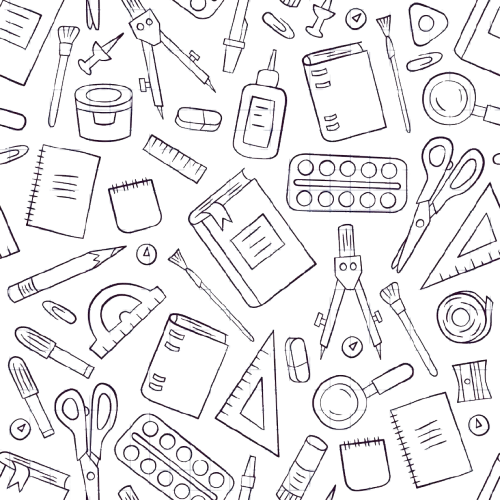
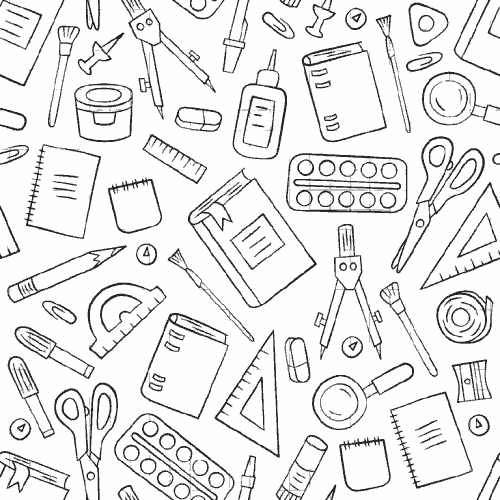
mejor

diff --git a/src/app/footer/footer.component.html b/src/app/footer/footer.component.html
@@ -2,9 +2,9 @@
     <div class="mx-auto w-full max-w-screen-xl p-4 py-6 lg:py-8">
         <div class="md:flex md:justify-between">
           <div class="mb-6 md:mb-0">
-              <a href="https://flowbite.com/" class="flex items-center">
-                  <img src="LOGO SHOPPERS 2024.jpg" class="h-14 me-3" alt="Shoppers Logo" />
-                  <span class="self-center text-2xl font-semibold whitespace-nowrap text-white">{{title}}</span>
+              <a  class="flex items-center">
+                  <img src="LOGO_SHOPPERS_20241-white.png" class="h-14 me-3" alt="Shoppers Logo" />
+                  <!-- <span class="self-center text-2xl font-semibold whitespace-nowrap text-white">{{title}}</span> -->
               </a>
           </div>
           <div class="grid grid-cols-2 gap-8 sm:gap-6 sm:grid-cols-3">
@@ -23,39 +23,14 @@
       </div>
       <hr class="my-6 border-white sm:mx-auto  lg:my-8" />
       <div class="sm:flex sm:items-center sm:justify-between">
-          <span class="text-sm text-white">© {{year}} <a href="https://flowbite.com/" class="hover:underline">{{title}}</a>. Todos los Derechos Reservados.
+          <span class="text-sm text-white">© {{year}} <a  class="hover:underline">{{title}}</a>. Todos los Derechos Reservados.
           </span>
           <div class="flex mt-4 sm:justify-center sm:mt-0">
-              <a href="#" class="text-white  ">
-                  <svg class="w-4 h-4" aria-hidden="true" xmlns="http://www.w3.org/2000/svg" fill="currentColor" viewBox="0 0 8 19">
-                        <path fill-rule="evenodd" d="M6.135 3H8V0H6.135a4.147 4.147 0 0 0-4.142 4.142V6H0v3h2v9.938h3V9h2.021l.592-3H5V3.591A.6.6 0 0 1 5.592 3h.543Z" clip-rule="evenodd"/>
-                    </svg>
-                  <span class="sr-only">Facebook page</span>
+            @for (item of socialMedia; track item) {
+              <a href={{item.link}} class="text-white" target="_blank" rel="noopener noreferrer">
+                  <mat-icon>{{item.icon}}</mat-icon>
               </a>
-              <a href="#" class="text-white   ms-5">
-                  <svg class="w-4 h-4" aria-hidden="true" xmlns="http://www.w3.org/2000/svg" fill="currentColor" viewBox="0 0 21 16">
-                        <path d="M16.942 1.556a16.3 16.3 0 0 0-4.126-1.3 12.04 12.04 0 0 0-.529 1.1 15.175 15.175 0 0 0-4.573 0 11.585 11.585 0 0 0-.535-1.1 16.274 16.274 0 0 0-4.129 1.3A17.392 17.392 0 0 0 .182 13.218a15.785 15.785 0 0 0 4.963 2.521c.41-.564.773-1.16 1.084-1.785a10.63 10.63 0 0 1-1.706-.83c.143-.106.283-.217.418-.33a11.664 11.664 0 0 0 10.118 0c.137.113.277.224.418.33-.544.328-1.116.606-1.71.832a12.52 12.52 0 0 0 1.084 1.785 16.46 16.46 0 0 0 5.064-2.595 17.286 17.286 0 0 0-2.973-11.59ZM6.678 10.813a1.941 1.941 0 0 1-1.8-2.045 1.93 1.93 0 0 1 1.8-2.047 1.919 1.919 0 0 1 1.8 2.047 1.93 1.93 0 0 1-1.8 2.045Zm6.644 0a1.94 1.94 0 0 1-1.8-2.045 1.93 1.93 0 0 1 1.8-2.047 1.918 1.918 0 0 1 1.8 2.047 1.93 1.93 0 0 1-1.8 2.045Z"/>
-                    </svg>
-                  <span class="sr-only">Discord community</span>
-              </a>
-              <a href="#" class="text-white   ms-5">
-                  <svg class="w-4 h-4" aria-hidden="true" xmlns="http://www.w3.org/2000/svg" fill="currentColor" viewBox="0 0 20 17">
-                    <path fill-rule="evenodd" d="M20 1.892a8.178 8.178 0 0 1-2.355.635 4.074 4.074 0 0 0 1.8-2.235 8.344 8.344 0 0 1-2.605.98A4.13 4.13 0 0 0 13.85 0a4.068 4.068 0 0 0-4.1 4.038 4 4 0 0 0 .105.919A11.705 11.705 0 0 1 1.4.734a4.006 4.006 0 0 0 1.268 5.392 4.165 4.165 0 0 1-1.859-.5v.05A4.057 4.057 0 0 0 4.1 9.635a4.19 4.19 0 0 1-1.856.07 4.108 4.108 0 0 0 3.831 2.807A8.36 8.36 0 0 1 0 14.184 11.732 11.732 0 0 0 6.291 16 11.502 11.502 0 0 0 17.964 4.5c0-.177 0-.35-.012-.523A8.143 8.143 0 0 0 20 1.892Z" clip-rule="evenodd"/>
-                </svg>
-                  <span class="sr-only">Twitter page</span>
-              </a>
-              <a href="#" class="text-white   ms-5">
-                  <svg class="w-4 h-4" aria-hidden="true" xmlns="http://www.w3.org/2000/svg" fill="currentColor" viewBox="0 0 20 20">
-                        <path fill-rule="evenodd" d="M10 .333A9.911 9.911 0 0 0 6.866 19.65c.5.092.678-.215.678-.477 0-.237-.01-1.017-.014-1.845-2.757.6-3.338-1.169-3.338-1.169a2.627 2.627 0 0 0-1.1-1.451c-.9-.615.07-.6.07-.6a2.084 2.084 0 0 1 1.518 1.021 2.11 2.11 0 0 0 2.884.823c.044-.503.268-.973.63-1.325-2.2-.25-4.516-1.1-4.516-4.9A3.832 3.832 0 0 1 4.7 7.068a3.56 3.56 0 0 1 .095-2.623s.832-.266 2.726 1.016a9.409 9.409 0 0 1 4.962 0c1.89-1.282 2.717-1.016 2.717-1.016.366.83.402 1.768.1 2.623a3.827 3.827 0 0 1 1.02 2.659c0 3.807-2.319 4.644-4.525 4.889a2.366 2.366 0 0 1 .673 1.834c0 1.326-.012 2.394-.012 2.72 0 .263.18.572.681.475A9.911 9.911 0 0 0 10 .333Z" clip-rule="evenodd"/>
-                  </svg>
-                  <span class="sr-only">GitHub account</span>
-              </a>
-              <a href="#" class="text-white   ms-5">
-                  <svg class="w-4 h-4" aria-hidden="true" xmlns="http://www.w3.org/2000/svg" fill="currentColor" viewBox="0 0 20 20">
-                    <path fill-rule="evenodd" d="M10 0a10 10 0 1 0 10 10A10.009 10.009 0 0 0 10 0Zm6.613 4.614a8.523 8.523 0 0 1 1.93 5.32 20.094 20.094 0 0 0-5.949-.274c-.059-.149-.122-.292-.184-.441a23.879 23.879 0 0 0-.566-1.239 11.41 11.41 0 0 0 4.769-3.366ZM8 1.707a8.821 8.821 0 0 1 2-.238 8.5 8.5 0 0 1 5.664 2.152 9.608 9.608 0 0 1-4.476 3.087A45.758 45.758 0 0 0 8 1.707ZM1.642 8.262a8.57 8.57 0 0 1 4.73-5.981A53.998 53.998 0 0 1 9.54 7.222a32.078 32.078 0 0 1-7.9 1.04h.002Zm2.01 7.46a8.51 8.51 0 0 1-2.2-5.707v-.262a31.64 31.64 0 0 0 8.777-1.219c.243.477.477.964.692 1.449-.114.032-.227.067-.336.1a13.569 13.569 0 0 0-6.942 5.636l.009.003ZM10 18.556a8.508 8.508 0 0 1-5.243-1.8 11.717 11.717 0 0 1 6.7-5.332.509.509 0 0 1 .055-.02 35.65 35.65 0 0 1 1.819 6.476 8.476 8.476 0 0 1-3.331.676Zm4.772-1.462A37.232 37.232 0 0 0 13.113 11a12.513 12.513 0 0 1 5.321.364 8.56 8.56 0 0 1-3.66 5.73h-.002Z" clip-rule="evenodd"/>
-                </svg>
-                  <span class="sr-only">Dribbble account</span>
-              </a>
+            }
           </div>
       </div>
     </div>

diff --git a/src/app/product-alone/product-alone.component.html b/src/app/product-alone/product-alone.component.html
@@ -1,0 +1,65 @@
+<div class="bg-gray-100">
+  <div class="container mx-auto px-4 py-8 max-w-screen-xl">
+    <div class="flex flex-wrap -mx-4">
+      <!-- Product Images -->
+      <div class="w-full md:w-1/2 sm:px-32 md:px-8 lg:px-14 mb-8 px-4">
+        <!-- Imagen principal -->
+        <img [src]="selectedImageUrl" alt="Product" class="w-full h-auto rounded-lg shadow-md mb-4 aspect-square object-contain">
+        
+        <!-- Miniaturas -->
+        <div class="flex gap-4 py-4 justify-center overflow-x-auto flex-wrap">
+          @for (item of listImgs; track item) {
+            <img [src]="item" alt="Product" class="size-16 sm:size-20 object-cover rounded-md cursor-pointer opacity-60  transition duration-300"
+              (click)="changeImage(item)" [class.selectImg]="selectedImageUrl === item">
+          }
+        </div>
+      </div>
+
+      <!-- Product Details -->
+      <div class="w-full md:w-1/2 px-4">
+        <h2 class="text-3xl font-bold mb-2">Premium Wireless Headphones</h2>
+        <p class="text-gray-600 mb-4">SKU: WH1000XM4</p>
+        <div class="mb-4">
+          <span class="text-2xl font-bold mr-2">$349.99</span>
+          <span class="text-gray-500 line-through">$399.99</span>
+        </div>
+        <p class="text-gray-700 mb-6">Experience premium sound quality and industry-leading noise cancellation with these wireless headphones. Perfect for music lovers and frequent travelers.</p>
+
+
+
+        <div class="flex space-x-4 mb-6">
+          <form class="max-w-full ">
+            <label for="quantity-input" class=" mt-3 mb-1 text-xs font-extralight text-rojo flex items-center ">
+              Agregar al <svg xmlns="http://www.w3.org/2000/svg" fill="none" viewBox="0 0 24 24" stroke-width="1.5" stroke="currentColor" class="file:  h-5 w-5">
+                <path stroke-linecap="round" stroke-linejoin="round" d="M2.25 3h1.386c.51 0 .955.343 1.087.835l.383 1.437M7.5 14.25a3 3 0 00-3 3h15.75m-12.75-3h11.218c1.121-2.3 2.1-4.684 2.924-7.138a60.114 60.114 0 00-16.536-1.84M7.5 14.25L5.106 5.272M6 20.25a.75.75 0 11-1.5 0 .75.75 0 011.5 0zm12.75 0a.75.75 0 11-1.5 0 .75.75 0 011.5 0z" />
+            </svg>
+            </label>
+            <div class="relative flex items-center  justify-center">
+                <button type="button" id="decrement-button" data-input-counter-decrement="quantity-input" class="bg-rojo  hover:bg-rojo-hover   rounded-s-md  p-2 h-7 sm-360:h-8">
+                    <svg class="w-3 h-3 text-white" aria-hidden="true" xmlns="http://www.w3.org/2000/svg" fill="none" viewBox="0 0 18 2">
+                        <path stroke="currentColor" stroke-linecap="round" stroke-linejoin="round" stroke-width="2" d="M1 1h16"/>
+                    </svg>
+                </button>
+                <input type="text" id="quantity-input" data-input-counter data-input-counter-min="1" data-input-counter-max="50" aria-describedby="helper-text-explanation" class="bg-white border-x-0 border-gray-200 h-7 sm-360:h-8 text-center text-black text-sm w-10 font-medium border focus:outline-none" placeholder="999" value="0" required />
+                <button type="button" id="increment-button" data-input-counter-increment="quantity-input" class="bg-rojo  hover:bg-rojo-hover   rounded-e-md p-2 h-7 sm-360:h-8">
+                    <svg class="w-3 h-3 text-white" aria-hidden="true" xmlns="http://www.w3.org/2000/svg" fill="none" viewBox="0 0 18 18">
+                        <path stroke="currentColor" stroke-linecap="round" stroke-linejoin="round" stroke-width="2" d="M9 1v16M1 9h16"/>
+                    </svg>
+                </button>
+            </div>
+          </form>
+        </div>
+
+        <div>
+          <h3 class="text-lg font-semibold mb-2">Key Features:</h3>
+          <ul class="list-disc list-inside text-gray-700">
+            <li>Industry-leading noise cancellation</li>
+            <li>30-hour battery life</li>
+            <li>Touch sensor controls</li>
+            <li>Speak-to-chat technology</li>
+          </ul>
+        </div>
+      </div>
+    </div>
+  </div>
+</div>

diff --git a/src/app/main/main.component.html b/src/app/main/main.component.html
@@ -1,21 +1,24 @@
 <!-- component -->
-<div class="flex h-full w-full relative" style="min-height: calc(100vh - 76px);">
-    <img src="fondoCuadri.jpg" class="absolute  w-full h-full aspect-auto object-cover  " alt="">
-   
-    <!-- Right Pane -->
-    <div class="w-full  lg:w-1/2 flex items-center justify-center  relative  ">
-       
-        <div class="relative  text-center px-10   rounded-lg" >
-            <h1 class=" text-5xl text-rojo bg-white mb-6 font-extrabold w-max mx-auto shadow-text">Shoppers</h1>
-            <span class=" font-bold text-xl text-black bg-white shadow-text ">
-                En nuestra papelería encontrarás todo lo necesario para dar vida a tus ideas y organizar tu día con estilo. <br> ¡Haz que tu creatividad fluya!
-            </span>
+<div class="bg-white">
+    <div class="flex h-full max-w-screen-xl mx-auto relative" style="min-height: calc(100vh - 84px);">
+        <img src="fondoCuadri.png" class="absolute  w-full h-full aspect-auto object-cover  " alt="">
+    
+        <!-- Right Pane -->
+        <div class="w-full  lg:w-1/2 flex items-center justify-center  relative  ">
+        
+            <!-- <div class="relative  text-center px-10   rounded-lg" >
+                <h1 class=" text-5xl text-rojo bg-white mb-6 font-extrabold w-max mx-auto shadow-text">Shoppers</h1>
+                <span class=" font-bold text-xl text-black bg-white shadow-text ">
+                    En nuestra papelería encontrarás todo lo necesario para dar vida a tus ideas y organizar tu día con estilo. <br> ¡Haz que tu creatividad fluya!
+                </span>
+            </div> -->
+            <img src="LOGO_SHOPPERS_2024-removebg.png" class=" w-full h-full  aspect-auto p-4 object-contain absolute  max-w-screen-xl " alt="Shoppers Logo" />
+
         </div>
-      
+        <!-- Left Pane -->
+        <div class="hidden lg:flex items-center justify-center lg:w-1/2 relative ">
+        
+            <img src="utiles4.png" class=" w-full h-full  aspect-square object-cover absolute  max-w-screen-xl " alt="Shoppers Logo" />
+        </div>
     </div>
-     <!-- Left Pane -->
-     <div class="hidden lg:flex items-center justify-center lg:w-1/2 relative ">
-       
-        <img src="utiles4.png" class=" w-full h-full  aspect-square object-cover absolute  max-w-screen-xl " alt="Shoppers Logo" />
-    </div>
-  </div>
+</div>

diff --git a/src/app/header/header.component.html b/src/app/header/header.component.html
@@ -3,8 +3,8 @@
     <nav class=" border-gray-200 px-4 lg:px-6 py-2.5  text-white bg-rojo">
         <div class="flex flex-wrap justify-between items-center mx-auto max-w-screen-xl">
             <a href="#" class="flex items-center cursor-default">
-                <img src="LOGO SHOPPERS 2024.jpg" class="mr-3 h-16 lg:h-16" alt="Flowbite Logo" />
-                <span class="self-center text-xl font-semibold whitespace-nowrap dark:text-white hidden  sm-380:inline">Shoppers</span>
+                <img src="LOGO_SHOPPERS_20241-white.png" class="mr-3 h-16 lg:h-16" alt="Flowbite Logo" />
+                <!-- <span class="self-center text-xl font-semibold whitespace-nowrap dark:text-white hidden  sm-380:inline">Shoppers</span> -->
             </a>
             <div class="flex items-center lg:order-2 ">
                 <!-- component -->
@@ -28,12 +28,11 @@
                 <ul class="flex flex-col items-center mt-4 font-medium lg:flex-row lg:space-x-8 lg:mt-0">
                     <li>
                         <div class="block w-full">
-                            <select id="countries" class="h-10 border border-rojo-hover text-white text-base rounded-md block w-full py-1 px-1  bg-rojo-hover focus:outline-none" (change)="onCountryChange($event)">
-                            <option selected>Choose a country</option>
-                            <option value="US">United States</option>
-                            <option value="CA">Canada</option>
-                            <option value="FR">France</option>
-                            <option value="DE">Germany</option>
+                            <select id="countries" class="h-10 border border-rojo-hover text-white text-base rounded-md block w-full py-1 px-1  bg-rojo-hover focus:outline-none" (change)="onCategoryChange($event)">
+                            <option selected>Escoge una categoria </option>
+                                @for (item of categoriasPapeleria; track item) {
+                                    <option value={{item}}>{{item}}</option>
+                                }
                             </select>
                             </div>
                         

diff --git a/src/app/product-alone/product-alone.component.ts b/src/app/product-alone/product-alone.component.ts
@@ -1,0 +1,28 @@
+import { Component } from '@angular/core';
+
+@Component({
+  selector: 'app-product-alone',
+  templateUrl: './product-alone.component.html',
+  styleUrls: ['./product-alone.component.css'],
+})
+export class ProductAloneComponent {
+
+  // Array con las URLs de las imágenes
+  listImgs: string[] = [
+    'https://images.unsplash.com/photo-1505740420928-5e560c06d30e?crop=entropy&cs=tinysrgb&fit=max&fm=jpg&ixid=M3w0NzEyNjZ8MHwxfHNlYXJjaHwxfHxoZWFkcGhvbmV8ZW58MHwwfHx8MTcyMTMwMzY5MHww&ixlib=rb-4.0.3&q=80&w=1080',
+    'https://images.unsplash.com/photo-1505751171710-1f6d0ace5a85?crop=entropy&cs=tinysrgb&fit=max&fm=jpg&ixid=M3w0NzEyNjZ8MHwxfHNlYXJjaHwxMnx8aGVhZHBob25lfGVufDB8MHx8fDE3MjEzMDM2OTB8MA&ixlib=rb-4.0.3&q=80&w=1080',
+    'https://images.unsplash.com/photo-1484704849700-f032a568e944?crop=entropy&cs=tinysrgb&fit=max&fm=jpg&ixid=M3w0NzEyNjZ8MHwxfHNlYXJjaHw0fHxoZWFkcGhvbmV8ZW58MHwwfHx8MTcyMTMwMzY5MHww&ixlib=rb-4.0.3&q=80&w=1080',
+    'https://images.unsplash.com/photo-1528148343865-51218c4a13e6?crop=entropy&cs=tinysrgb&fit=max&fm=jpg&ixid=M3w0NzEyNjZ8MHwxfHNlYXJjaHwzfHxoZWFkcGhvbmV8ZW58MHwwfHx8MTcyMTMwMzY5MHww&ixlib=rb-4.0.3&q=80&w=1080'
+  ];
+
+  // Inicializamos la imagen seleccionada con la primera URL del array
+  selectedImageUrl: string = this.listImgs[0];
+
+  // Método para cambiar la imagen principal
+  changeImage(url:string): any {
+    if (url === this.selectedImageUrl) return; 
+    if(this.listImgs.includes(url)) return this.selectedImageUrl = url 
+  }
+
+  
+}

diff --git a/src/app/card-product/card-product.component.html b/src/app/card-product/card-product.component.html
@@ -1,19 +1,20 @@
 <div class="rounded-sm outline-1 outline outline-gray-200 shadow-sm bg-white  overflow-hidden max-w-52">
     <div class="h-max w-full border-gray-200 border-b   " >
-      <a href="#" class="">
+      <a routerLink="/producto/example" class="">
         <img class="w-full object-contain aspect-square"  src="https://production-tailoy-repo-magento-statics.s3.amazonaws.com/imagenes/872x872/productos/i/c/u/cuad-dlx-80h-cdmax-sol-chiki-colleg-cele-66730004-default-1.jpg" alt="" />
       </a>
     </div>
     <div class="p-3">
-      <p class="text-sm font-medium leading-none  h-[43px]  " style="display: -webkit-box;
+      <p class="text-sm font-medium leading-none  h-[43px]  text-gray-900" style="display: -webkit-box;
       -webkit-line-clamp: 3;
       -webkit-box-orient: vertical;
+      line-clamp: 3;
      overflow: hidden;">El Horizonte Eterno de la Brisa Nocturna que Abraza el Alma Inquieta Una</p>
 
       <div class="mt-2 flex items-center gap-1">
 
         <p class="text-sm font-medium text-rojo">Stock</p>
-        <p class="text-sm font-medium text-rojo">(<span class="text-black">455</span>)</p>
+        <p class="text-sm font-medium text-rojo">(<span class="text-gray-900">455</span>)</p>
       </div>
       <div class="mt-3 flex items-center justify-between gap-4">
         <p class="text-xl font-semibold leading-tight text-rojo">S/2,110.50</p>

diff --git a/src/app/header/header.component.ts b/src/app/header/header.component.ts
@@ -8,12 +8,35 @@ import { Router } from '@angular/router';
 })
 export class HeaderComponent {
   constructor(private router: Router) {}
-
-  onCountryChange(event: Event): void {
+   categoriasPapeleria:string[] = [
+    "Bolígrafos y marcadores",
+    "Lápices y portaminas",
+    "Carpetas y archivadores",
+    "Cuadernos y libretas",
+    "Hojas y papeles",
+    "Pegamento y adhesivos",
+    "Cinta adhesiva",
+    "Reglas y escuadras",
+    "Tijeras y cortadores",
+    "Papel de envolver y regalo",
+    "Calculadoras",
+    "Estuches y organizadores",
+    "Papel de impresora",
+    "Pinturas y pinceles",
+    "Etiquetas y adhesivos",
+    "Suministros para oficina",
+    "Sellos y tinta",
+    "Accesorios para escritura",
+    "Material de arte",
+    "Papelería escolar",
+    "Material de oficina"
+  ];
+  
+  onCategoryChange(event: Event): void {
     const selectElement = event.target as HTMLSelectElement;
     const selectedValue = selectElement.value;
 
-    if (selectedValue) {
+    if (this.categoriasPapeleria.includes(selectedValue) ) {
       this.router.navigate([`/categoria/${selectedValue}`]);
     }
   }

diff --git a/src/app/product-alone/product-alone.component.spec.ts b/src/app/product-alone/product-alone.component.spec.ts
@@ -1,0 +1,23 @@
+import { ComponentFixture, TestBed } from '@angular/core/testing';
+
+import { ProductAloneComponent } from './product-alone.component';
+
+describe('ProductAloneComponent', () => {
+  let component: ProductAloneComponent;
+  let fixture: ComponentFixture<ProductAloneComponent>;
+
+  beforeEach(async () => {
+    await TestBed.configureTestingModule({
+      imports: [ProductAloneComponent]
+    })
+    .compileComponents();
+
+    fixture = TestBed.createComponent(ProductAloneComponent);
+    component = fixture.componentInstance;
+    fixture.detectChanges();
+  });
+
+  it('should create', () => {
+    expect(component).toBeTruthy();
+  });
+});

diff --git a/src/app/footer/footer.component.ts b/src/app/footer/footer.component.ts
@@ -1,12 +1,21 @@
 import { Component } from '@angular/core';
+import {MatIconModule} from '@angular/material/icon';
 
 @Component({
   selector: 'app-footer',
-  imports: [],
+  imports: [MatIconModule],
   templateUrl: './footer.component.html',
   styleUrl: './footer.component.css'
 })
 export class FooterComponent {
+  socialMedia:object[]=[
+    {icon:'facebook',link:''},
+    {icon:'twitter',link:''},
+    {icon:'instagram',link:''},
+    {icon:'youtube',link:''},
+    {icon:'whatsapp',link:''},
+  ]
+
   title:string="Shoppers"
   year:number = new Date().getFullYear()
 }

diff --git a/src/app/app.routes.ts b/src/app/app.routes.ts
@@ -1,12 +1,14 @@
 import { Routes } from '@angular/router';
 import { SearchCategoryComponent } from './search-category/search-category.component';
 import { MainComponent } from './main/main.component';
+import { ProductAloneComponent } from './product-alone/product-alone.component';
 
 export const routes: Routes = [
   
   { path:'',component:MainComponent},
   { path: 'categoria/:id', component: SearchCategoryComponent },
   { path: 'busqueda/:id', component: SearchCategoryComponent },
+  { path: 'producto/:id', component: ProductAloneComponent },
 
 ];
 

diff --git a/tailwind.config.js b/tailwind.config.js
@@ -8,17 +8,17 @@ module.exports = {
       extend: {
         colors: {
           'rojo': '#ed1c24',
-          'rojo-hover': '#f48c74',
+          'rojo-hover': '#ec533c',
           'danger': '#e3342f',
         },
         backgroundColor: {
           'rojo': '#ed1c24',
-          'rojo-hover': '#f48c74',
+          'rojo-hover': '#ec533c',
           
         },
         textColor: {
           'rojo': '#ed1c24',
-          'rojo-hover': '#f48c74',
+          'rojo-hover': '#ec533c',
           'danger': '#e3342f',
         },
         screens: {

diff --git a/src/index.html b/src/index.html
@@ -6,8 +6,10 @@
   <base href="/">
   <meta name="viewport" content="width=device-width, initial-scale=1">
   <link rel="icon" type="image/x-icon" href="LOGO SHOPPERS 2024.jpg">
+  <link href="https://fonts.googleapis.com/css2?family=Roboto:wght@300;400;500&display=swap" rel="stylesheet">
+  <link href="https://fonts.googleapis.com/icon?family=Material+Icons" rel="stylesheet">
 </head>
-<body>
+<body class="mat-typography">
   <app-root></app-root>
 </body>
 </html>
